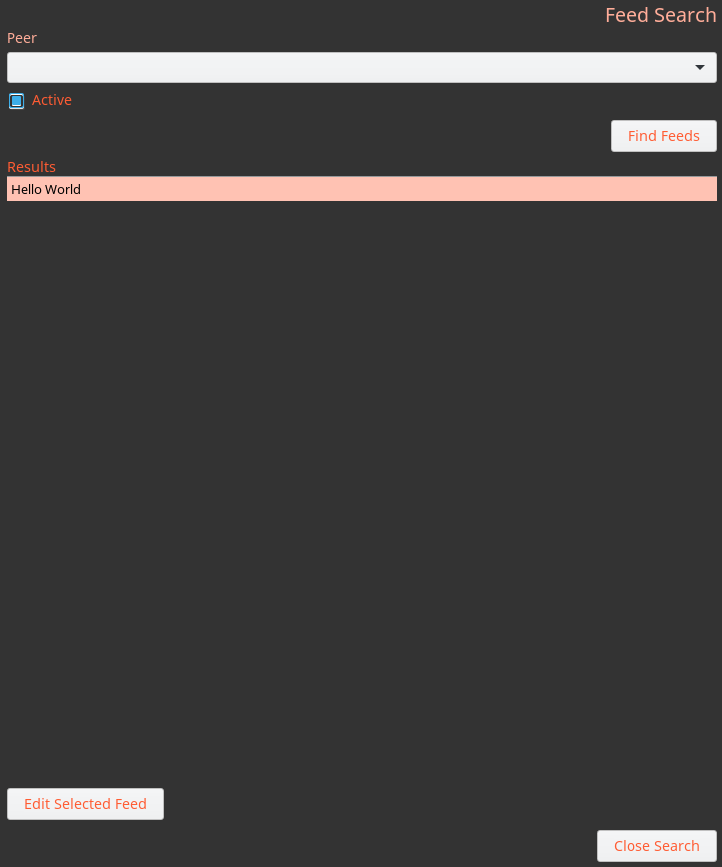
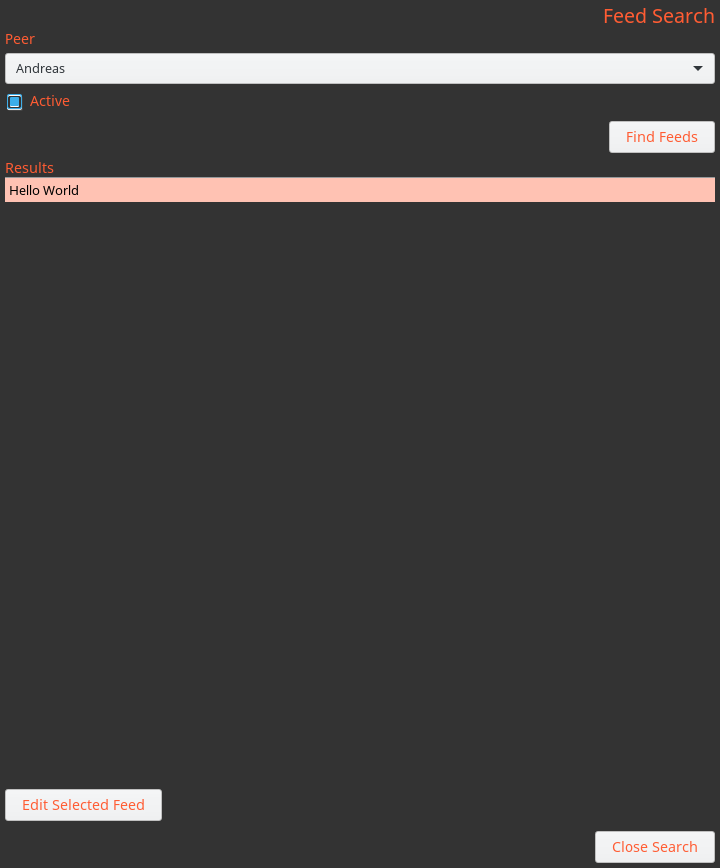
updated image

diff --git a/dist/gui.css b/dist/gui.css
@@ -37,7 +37,7 @@ GtkEntry {
 }
 
 GtkLabel {
-    color: #ffad99;
+    color: #ff5c33;
     font-size: 105%;
 }
 

diff --git a/src/snackis/snackis.cpp b/src/snackis/snackis.cpp
@@ -6,7 +6,7 @@
 #include "snackis/crypt/error.hpp"
 
 namespace snackis {
-  const int VERSION[3] = {0, 6, 9};
+  const int VERSION[3] = {0, 6, 10};
   const int64_t DB_REV = 1;
   const int64_t PROTO_REV = 2;
   
